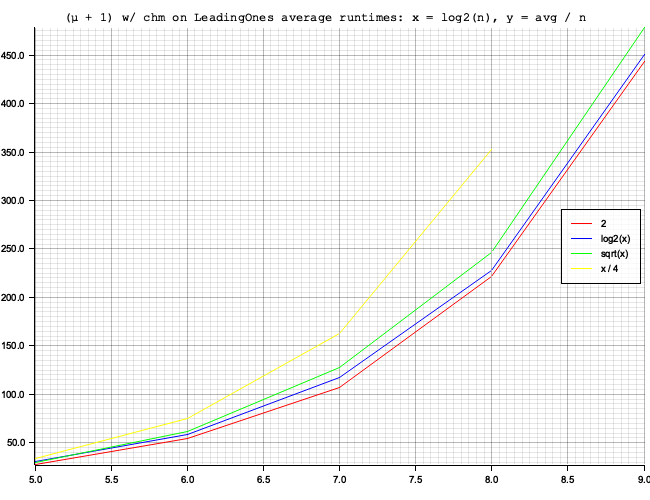
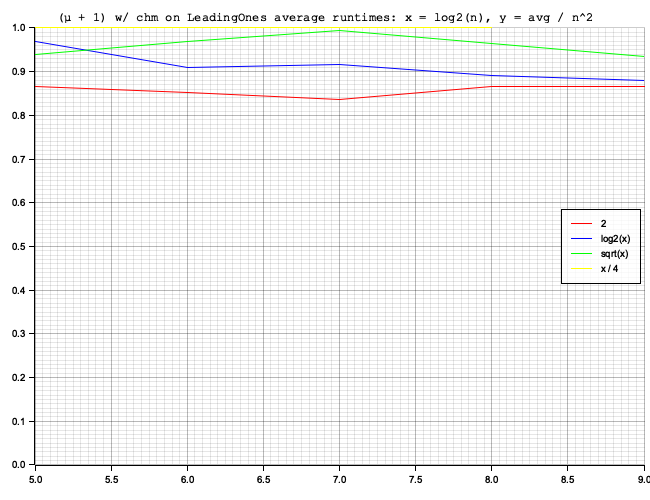
:alembic: (mu + 1) common average runtimes

Changed region(s): [[0.0, 0.03, 1.0, 0.93], [0.9846, 0.48, 1.0, 0.51]]

diff --git a/src/experiments/runtime.rs b/src/experiments/runtime.rs
@@ -21,14 +21,13 @@ pub async fn runtime_experiment() {
     ];
 
     for mu_getter in mu_getters {
-        let ns: Vec<usize> = (5..=13).map(|x| 1 << x).collect();
+        let ns: Vec<usize> = (11..=11).map(|x| 1 << x).collect();
 
         for n in ns {
             let mu = mu_getter(n);
 
-            let algorithm =
-                algorithm::mu_plus_one::ConvexHullMaximization::new(mu, 0.99, 1.0 / (n as f64));
-            let function = function::OneMax::new(n);
+            let algorithm = algorithm::mu_plus_one::Common::new(mu, 0.99, 1.0 / (n as f64));
+            let function = function::LeadingOnes::new(n);
 
             let now = Instant::now();
             println!("Running {} on {}", algorithm, function);
@@ -55,54 +54,57 @@ pub async fn runtime_experiment() {
         (
             "2",
             vec![
-                (5.0, 261.6640625 / 32.0),
-                (6.0, 630.59375 / 64.0),
-                (7.0, 1507.2109375 / 128.0),
-                (8.0, 3326.6796875 / 256.0),
-                (9.0, 7902.2109375 / 512.0),
-                (10.0, 17636.421875 / 1024.0),
-                (11.0, 39929.53125 / 2048.0),
-                (12.0, 85914.2890625 / 4096.0),
-                (13.0, 188340.6640625 / 8192.0),
+                (5.0, 1.348974609375),
+                (6.0, 1.41668701171875),
+                (7.0, 1.4236624581473214),
+                (8.0, 1.4436759948730469),
+                (9.0, 1.4407263861762152),
+                (10.0, 1.4343467712402345),
+                (11.0, 1.4191755814985796),
+                (12.0, 1.4516490300496419),
+                (13.0, 1.4494585624107947),
             ],
         ),
         (
             "log2(x)",
             vec![
-                (5.0, 279.3515625 / 32.0),
-                (6.0, 684.6796875 / 64.0),
-                (7.0, 1741.7578125 / 128.0),
-                (8.0, 3837.671875 / 256.0),
-                (9.0, 8663.5703125 / 512.0),
-                (10.0, 19633.015625 / 1024.0),
-                (11.0, 45917.953125 / 2048.0),
-                (12.0, 96628.0390625 / 4096.0),
-                (13.0, 210473.3984375 / 8192.0),
+                (5.0, 1.3314453125),
+                (6.0, 1.3318888346354167),
+                (7.0, 1.3749302455357142),
+                (8.0, 1.2973365783691406),
+                (9.0, 1.3248867458767362),
+                (10.0, 1.3326820373535155),
+                (11.0, 1.3573702031915837),
+                (12.0, 1.3666160901387532),
+                (13.0, 1.3410759705763597),
             ],
         ),
         (
             "sqrt(x)",
             vec![
-                (5.0, 264.3203125 / 32.0),
-                (6.0, 671.703125 / 64.0),
-                (7.0, 1688.671875 / 128.0),
-                (8.0, 4114.9375 / 256.0),
-                (9.0, 9395.140625 / 512.0),
-                (10.0, 22096.03125 / 1024.0),
-                (11.0, 50834.9609375 / 2048.0),
-                (12.0, 117448.34375 / 4096.0),
+                (5.0, 1.309326171875),
+                (6.0, 1.33203125),
+                (7.0, 1.3301304408482142),
+                (8.0, 1.434173583984375),
+                (9.0, 1.5009663899739583),
+                (10.0, 1.6014823913574219),
+                (11.0, 1.7041730013760654),
+                (12.0, 1.8595093091328938),
+                (13.0, 1.9724070475651667),
             ],
         ),
         (
             "x / 4",
             vec![
-                (5.0, 262.390625 / 32.0),
-                (6.0, 675.078125 / 64.0),
-                (7.0, 1728.671875 / 128.0),
-                (8.0, 4211.8828125 / 256.0),
-                (9.0, 10256.4375 / 512.0),
-                (10.0, 23351.7890625 / 1024.0),
-                (11.0, 57130.4765625 / 2048.0),
+                (5.0, 1.3814453125),
+                (6.0, 1.5381062825520833),
+                (7.0, 1.6531546456473214),
+                (8.0, 1.8591384887695312),
+                (9.0, 2.034823947482639),
+                (10.0, 2.2254104614257812),
+                (11.0, 2.4905392039905894),
+                (12.0, 2.979024092356364),
+                (13.0, 3.794988118685209),
             ],
         ),
     ];
@@ -120,11 +122,11 @@ pub async fn runtime_experiment() {
         .unwrap();
 
     save_plot(
-        "plots/runtime-one-max.png".to_owned(),
+        "plots/runtime-common-one-max.png".to_owned(),
         mu_average_results,
         5.0..13.0,
         y_min as f64..y_max as f64,
-        "(μ + 1) w/ chm on OneMax average runtimes: x = log2(n), y = avg / n",
+        "(μ + 1) on OneMax average runtimes: x = log2(n), y = avg / (nlog(n))",
         650,
         500,
     )
@@ -134,40 +136,45 @@ pub async fn runtime_experiment() {
         (
             "2",
             vec![
-                (5.0, 887.171875 / 32.0),
-                (6.0, 3491.2890625 / 64.0),
-                (7.0, 13709.3671875 / 128.0),
-                (8.0, 56812.609375 / 256.0),
-                (9.0, 227244.953125 / 512.0),
+                (5.0, 0.8868026733398438),
+                (6.0, 0.9063186645507812),
+                (7.0, 0.8625020980834961),
+                (8.0, 0.8670284748077393),
+                (9.0, 0.860436886548996),
+                (10.0, 0.8530555069446564),
             ],
         ),
         (
             "log2(x)",
             vec![
-                (5.0, 991.6953125 / 32.0),
-                (6.0, 3728.9765625 / 64.0),
-                (7.0, 14999.75 / 128.0),
-                (8.0, 58397.75 / 256.0),
-                (9.0, 230779.1015625 / 512.0),
+                (5.0, 0.8976974487304688),
+                (6.0, 0.8642654418945312),
+                (7.0, 0.8931021690368652),
+                (8.0, 0.870549201965332),
+                (9.0, 0.8620652556419373),
+                (10.0, 0.8598647266626358),
             ],
         ),
         (
             "sqrt(x)",
             vec![
-                (5.0, 962.5625 / 32.0),
-                (6.0, 3969.7421875 / 64.0),
-                (7.0, 16289.7109375 / 128.0),
-                (8.0, 63167.9296875 / 256.0),
-                (9.0, 244931.359375 / 512.0),
+                (5.0, 0.8444061279296875),
+                (6.0, 0.896759033203125),
+                (7.0, 0.8845338821411133),
+                (8.0, 0.8794373273849487),
+                (9.0, 0.8710023760795593),
+                (10.0, 0.8775895535945892),
             ],
         ),
         (
             "x / 4",
             vec![
-                (5.0, 1062.4765625 / 32.0),
-                (6.0, 4810.8671875 / 64.0),
-                (7.0, 20875.0859375 / 128.0),
-                (8.0, 90339.9453125 / 256.0),
+                (5.0, 0.9615707397460938),
+                (6.0, 0.9959278106689453),
+                (7.0, 1.0107364654541016),
+                (8.0, 1.0594673156738281),
+                (9.0, 1.1039375364780426),
+                (10.0, 1.1222889700601266),
             ],
         ),
     ];
@@ -185,11 +192,11 @@ pub async fn runtime_experiment() {
         .unwrap();
 
     save_plot(
-        "plots/runtime-leading-ones.png".to_owned(),
+        "plots/runtime-common-leading-ones.png".to_owned(),
         lo_average_results,
         5.0..9.0,
         y_min as f64..y_max as f64,
-        "(μ + 1) w/ chm on LeadingOnes average runtimes: x = log2(n), y = avg / n",
+        "(μ + 1) on LeadingOnes average runtimes: x = log2(n), y = avg / n^2",
         650,
         500,
     )
